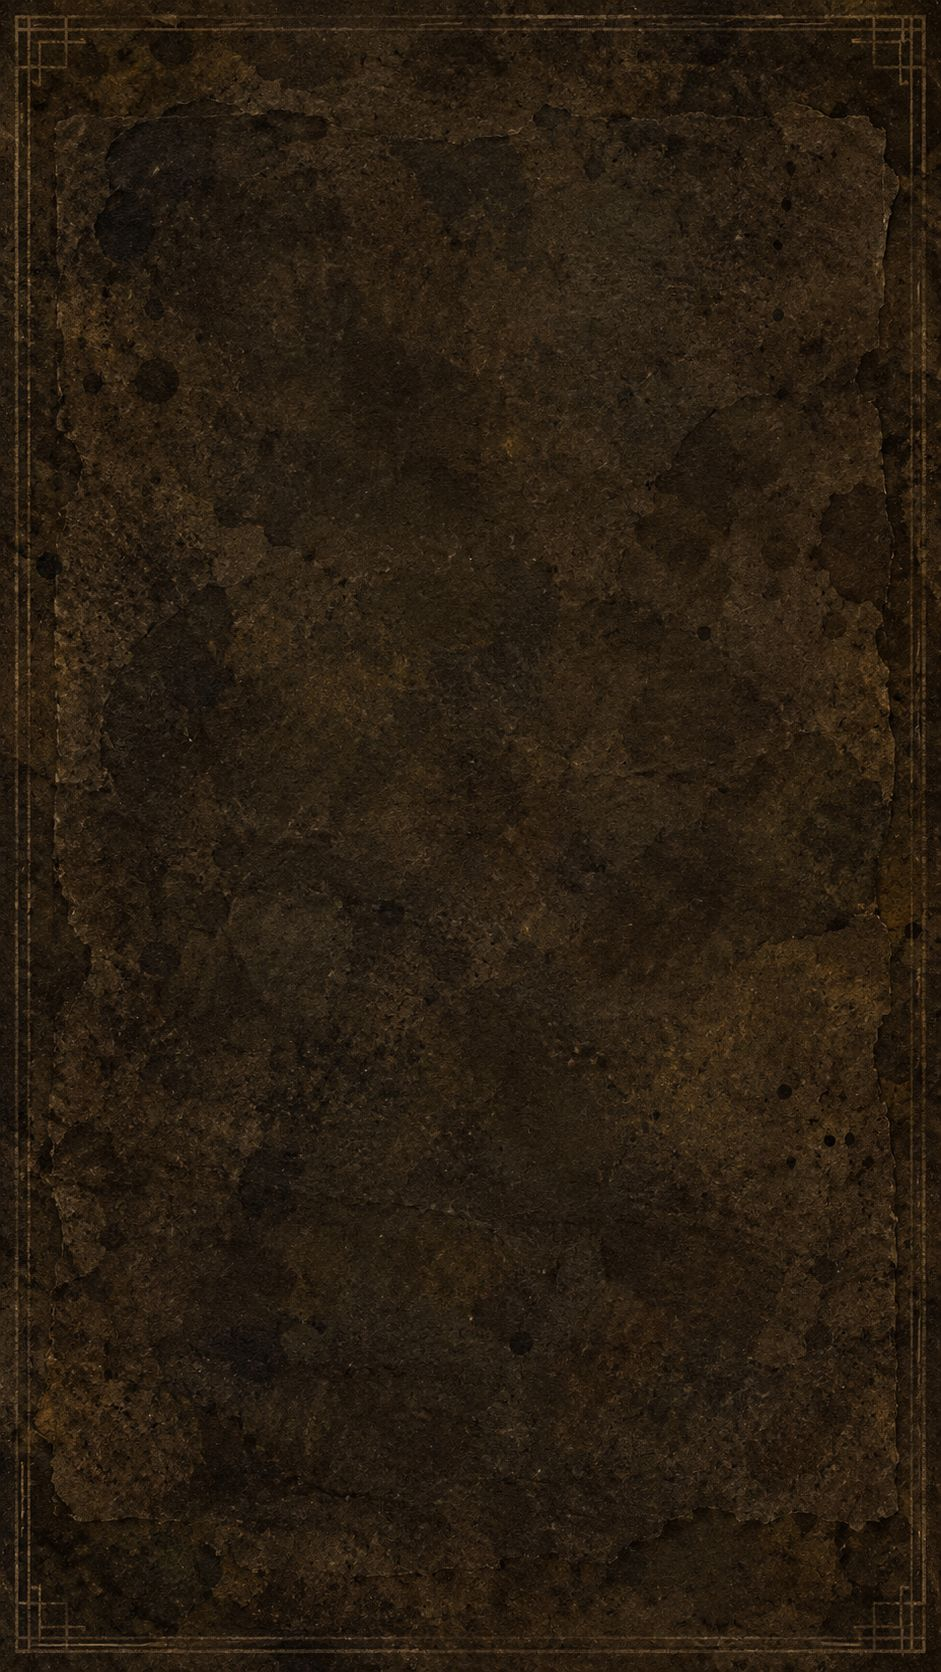
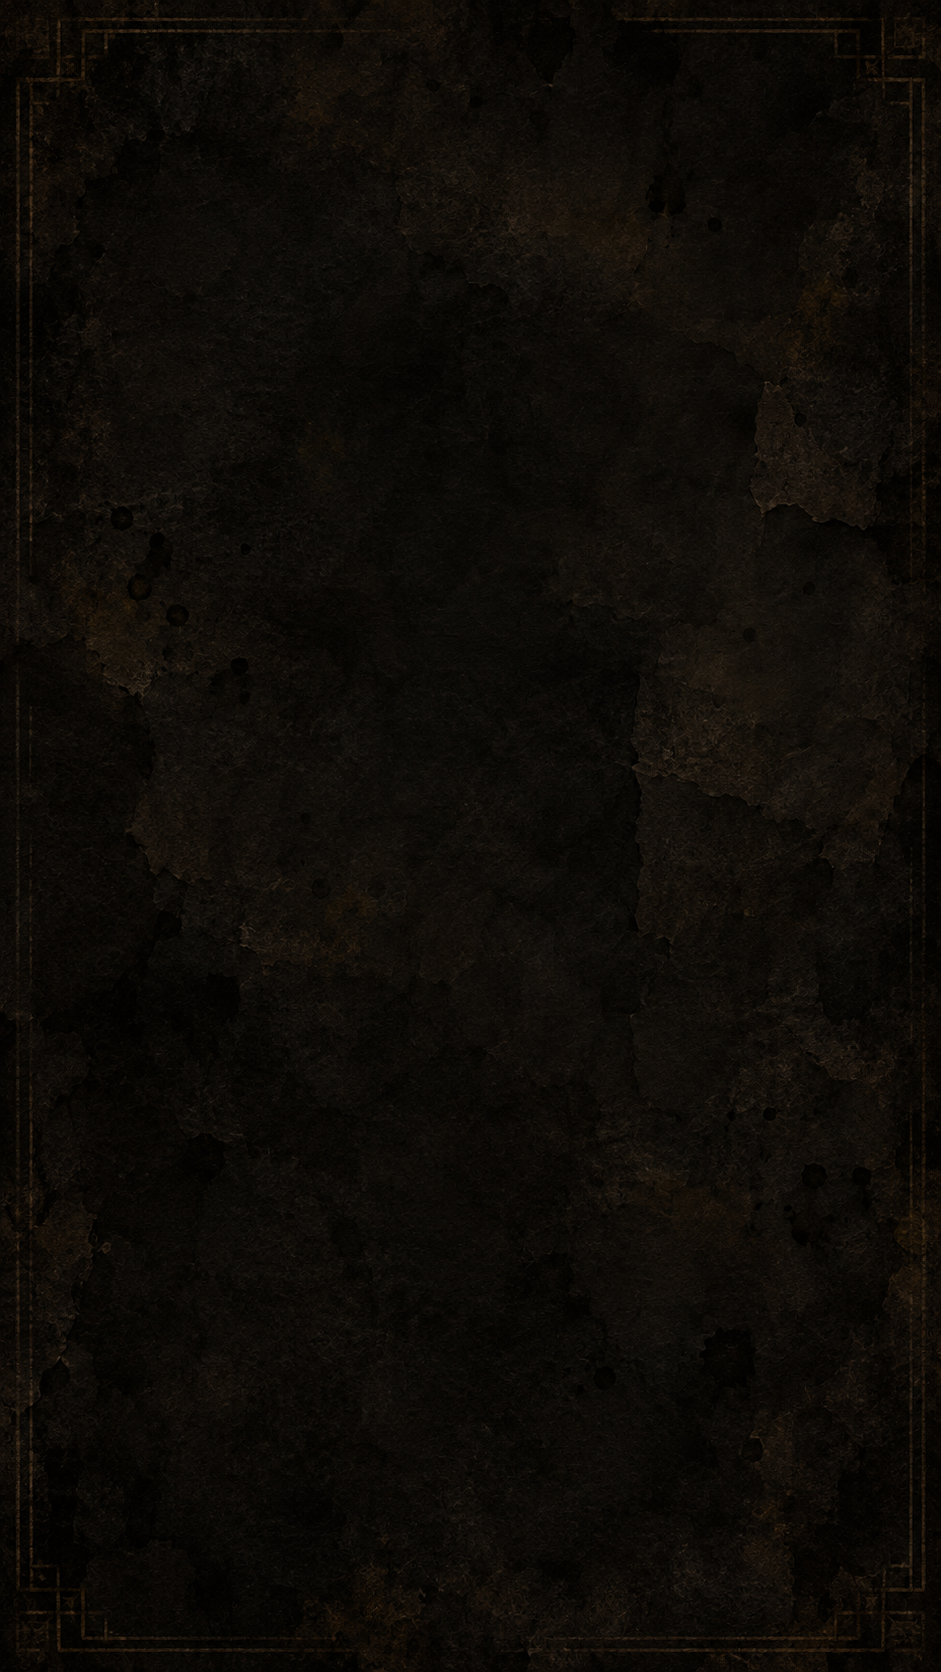
Add text export/import to the library for proofreading
Export writes the filtered scenarios as a plain-text file, one block per
passage headed by a hash of the original. Importing an edited file stores
changed blocks as overrides keyed by that hash and applies them to display
and speech; unchanged blocks are ignored, blocks set back to the original
are restored, and everything can be reset. Overrides ride along in the
backup code.

diff --git a/js/panels.js b/js/panels.js
@@ -61,13 +61,95 @@ function renderLibrary() {
 }
 function openLibrary(restore) {
   if (!OVERLAYS.includes(current)) { returnTo = current; if (!restore) { LIB.cycle = CUR.cycle.id; LIB.scenario = CUR.id; } }
-  stopPlayback(); fillLibSelects(); renderLibrary(); where('全部循環', '文本庫'); show('library');
+  stopPlayback(); fillLibSelects(); renderLibrary(); showOvCount(); where('全部循環', '文本庫'); show('library');
   if (restore) window.scrollTo(0, LIB.scroll);
 }
 $('libCycle').onchange = () => { LIB.cycle = $('libCycle').value; LIB.scenario = 'all'; fillLibSelects(); renderLibrary(); };
 $('libScenario').onchange = () => { LIB.scenario = $('libScenario').value; renderLibrary(); };
 let libT;
 $('libSearch').oninput = () => { clearTimeout(libT); libT = setTimeout(() => { LIB.q = $('libSearch').value; renderLibrary(); }, 160); };
+/* ---------- 文本匯出／匯入（逐段校對） ---------- */
+const textHash = t => { let h = 0x811c9dc5; for (let i = 0; i < t.length; i++) { h ^= t.charCodeAt(i); h = Math.imul(h, 0x01000193); } return (h >>> 0).toString(16).padStart(8, '0'); };
+// 一關裡所有可以校對的文字欄位。卡名不在內：同名的卡靠名字認版本，改名字請用名詞替換
+function textSlots(sc) {
+  const out = [];
+  const walk = (nodes, where) => nodes.forEach(n => {
+    if (n.k === 'ask') n.opts.forEach(o => walk(o.nodes, where));
+    else if (n.k !== 'goto' && n.text) out.push({ obj: n, key: 'text', where: `${where}${n.k === 'note' ? '（指示）' : ''}` });
+  });
+  walk(sc.flow, '開場');
+  sc.decks.forEach(d => d.cards.forEach(c => [['flavor', '正面'], ['backFlavor', '背面'], ['backText', '背面效果']].forEach(([key, side]) => {
+    if (c[key]) out.push({ obj: c, key, where: `${d.label} ${ROMAN[c.stage]} ${side}：${side === '正面' ? c.name : c.backName || c.name}` });
+  })));
+  resIds(sc).forEach(id => walk(sc.resolutions[id].flow, resLabel(id)));
+  return out;
+}
+const origOf = (obj, key) => obj['_' + key] == null ? obj[key] : obj['_' + key];
+// 把校對過的版本套到目前載入的劇本上；原文留在 _text 這類欄位，才還原得回來
+function applyOverrides() {
+  allScenarios().forEach(sc => textSlots(sc).forEach(({ obj, key }) => {
+    const orig = origOf(obj, key); obj['_' + key] = orig;
+    obj[key] = OV[textHash(orig)] || orig;
+  }));
+  allTextMemo = [null, ''];
+}
+const libPool = () => { const pool = LIB.cycle === 'all' ? allScenarios() : CYCLES.find(c => c.id === LIB.cycle).scenarios; return LIB.scenario === 'all' ? pool : pool.filter(sc => sc.id === LIB.scenario); };
+function exportText(pool) {
+  const seen = new Set();
+  const lines = ['# 詭鎮劇本朗讀器 文本 v1', '# 只改每段的文字。「##」和「@」開頭的行是記號，不要改也不要刪。', '# 改完把整份檔案匯入；沒改的段落會被略過，所以只留你改過的幾段也可以。', ''];
+  pool.forEach(sc => {
+    lines.push(`## ${sc.cycle.name} ${sc.code} ${sc.title}`, '');
+    textSlots(sc).forEach(({ obj, key, where }) => {
+      const h = textHash(origOf(obj, key)); if (seen.has(h)) return; seen.add(h);
+      lines.push(`@${h} ${where}`, obj[key], '');
+    });
+  });
+  return lines.join('\n');
+}
+function importText(raw) {
+  const blocks = {}; let cur = null;
+  raw.replace(/^\uFEFF/, '').split(/\r?\n/).forEach(line => {
+    const m = /^@([0-9a-f]{8})(\s|$)/.exec(line);
+    if (m) { cur = m[1]; blocks[cur] = []; }
+    else if (/^##\s/.test(line)) cur = null;
+    else if (cur) blocks[cur].push(line);
+  });
+  const originals = {};
+  allScenarios().forEach(sc => textSlots(sc).forEach(({ obj, key }) => { const o = origOf(obj, key); originals[textHash(o)] = o; }));
+  let changed = 0, restored = 0, unknown = 0;
+  Object.entries(blocks).forEach(([h, ls]) => {
+    const text = ls.join('\n').trim();
+    if (!(h in originals)) { unknown++; return; }
+    if (!text) return;
+    if (text === originals[h].trim()) { if (OV[h]) { delete OV[h]; restored++; } }
+    else if (OV[h] !== text) { OV[h] = text; changed++; }
+  });
+  saveOV(); applyOverrides();
+  return { blocks: Object.keys(blocks).length, changed, restored, unknown };
+}
+function showOvCount(msg) {
+  const n = Object.keys(OV).length;
+  $('libReset').hidden = !n; $('libReset').textContent = `還原全部（${n} 段）`;
+  $('libIoStatus').textContent = msg || (n ? `目前有 ${n} 段用的是你改過的版本。` : '');
+}
+$('libExport').onclick = () => {
+  const pool = libPool(), name = pool.length === 1 ? pool[0].title : LIB.cycle === 'all' ? '全部' : pool[0].cycle.name;
+  const a = document.createElement('a'); a.href = URL.createObjectURL(new Blob([exportText(pool)], { type: 'text/plain;charset=utf-8' }));
+  a.download = `劇本文本_${name}.txt`; document.body.append(a); a.click(); a.remove();
+  setTimeout(() => URL.revokeObjectURL(a.href), 5000);
+  showOvCount(`已匯出 ${pool.length} 個關卡的文字。`);
+};
+$('libImportBtn').onclick = () => $('libImport').click();
+$('libImport').onchange = async () => {
+  const f = $('libImport').files[0]; if (!f) return;
+  const r = importText(await f.text()); $('libImport').value = '';
+  renderLibrary();
+  showOvCount(!r.blocks ? '這個檔案裡找不到「@」開頭的記號，請確認是從這裡匯出的文字檔。'
+    : `讀到 ${r.blocks} 段：套用 ${r.changed} 段修改` + (r.restored ? `、還原 ${r.restored} 段` : '') + (r.unknown ? `、有 ${r.unknown} 段對不上目前的劇本（已略過）` : '') + '。');
+};
+$('libReset').onclick = () => confirmThen('確定還原全部？你改過的段落會變回資料庫原本的文字。', 'blood', () => {
+  Object.keys(OV).forEach(k => delete OV[k]); saveOV(); applyOverrides(); renderLibrary(); show('library'); showOvCount('已全部還原。');
+}, '還原');
 const OVERLAYS = ['library', 'glossary', 'settings', 'story', 'saves'];
 function back() {
   if (returnTo === 'game') toGame(); else if (returnTo === 'library') openLibrary(true);
@@ -255,7 +337,7 @@ $('saveDel').onclick = () => {
   }, '刪除');
 };
 $('backupOut').onclick = async () => {
-  const code = JSON.stringify({ v: 1, saves: SV, glossary: GL, settings: S });
+  const code = JSON.stringify({ v: 1, saves: SV, glossary: GL, settings: S, overrides: OV });
   $('backupBox').value = code;
   try { await navigator.clipboard.writeText(code); $('saveStatus').textContent = '備份代碼已複製到剪貼簿，貼到記事本或傳給自己保存。'; }
   catch (e) { $('saveStatus').textContent = '備份代碼在下方欄位，請手動複製保存。'; }
@@ -268,6 +350,7 @@ $('backupIn').onclick = () => {
       SV.active = j.saves.active; SV.list = j.saves.list; persist();
       if (j.glossary) { Object.assign(GL, j.glossary); saveGL(); }
       if (j.settings) { Object.assign(S, j.settings); store.set('asr.settings', S); }
+      if (j.overrides) { Object.keys(OV).forEach(k => delete OV[k]); Object.assign(OV, j.overrides); saveOV(); applyOverrides(); }
       renderSaves(); show('saves'); $('saveStatus').textContent = '備份已匯入。';
     }, '匯入');
   } catch (e) { $('saveStatus').textContent = '備份代碼格式不對，請確認是從這個工具匯出的。'; }

diff --git a/css/style.css b/css/style.css
@@ -238,6 +238,14 @@ input[type=range]{accent-color:var(--brass-hi);min-height:44px}
 .lib-ctl{display:grid;grid-template-columns:1fr 1fr;gap:8px}
 .lib-ctl input{grid-column:1/-1}
 .lib-count{font-size:13px;color:var(--muted)}
+.lib-io{background:rgba(25,30,26,.9);border-radius:var(--r);padding:0 14px}
+.lib-io summary{min-height:48px;display:flex;align-items:center;gap:8px;font-size:15px;cursor:pointer;list-style:none}
+.lib-io summary::-webkit-details-marker{display:none}
+.lib-io summary::before{content:"›";font-size:20px;color:var(--brass-hi);transition:transform .2s var(--ease)}
+.lib-io[open] summary::before{transform:rotate(90deg)}
+.lib-io .settings-actions{margin:12px 0}
+.lib-io .status{padding-bottom:10px}
+.small-btn[hidden]{display:none}
 .lib-sc{margin-top:18px;padding-top:14px;border-top:1px solid var(--brass)}
 .lib-sc h3{margin:0;font-family:var(--display);font-size:21px;letter-spacing:.04em}
 .lib-sc h3 small{display:block;font-family:var(--body);font-size:13px;color:var(--muted);font-weight:400;margin-bottom:2px}

diff --git a/index.html b/index.html
@@ -80,6 +80,13 @@
       <input id="libSearch" type="search" placeholder="搜尋文字，例如人名或地點" aria-label="搜尋">
     </div>
     <div class="lib-count" id="libCount" role="status"></div>
+    <details class="lib-io">
+      <summary>匯出與匯入（校對文字用）</summary>
+      <p class="note">匯出上面篩選範圍的文字檔，用任何文字編輯器修改後再匯入。改過的段落之後就照你的版本顯示和朗讀，只存在這台裝置。</p>
+      <div class="settings-actions"><button class="small-btn" id="libExport">匯出文字檔</button><button class="small-btn" id="libImportBtn">匯入修改</button><button class="small-btn" id="libReset" hidden>還原全部</button></div>
+      <input type="file" id="libImport" accept=".txt,text/plain" hidden>
+      <div class="status" id="libIoStatus" role="status"></div>
+    </details>
     <div id="libBody"></div>
   </section>
 

diff --git a/js/state.js b/js/state.js
@@ -27,6 +27,11 @@ function saveResult(sc, resId, lines) {
 }
 const fmtTime = t => { const d = new Date(t); return `${d.getMonth() + 1}/${d.getDate()} ${String(d.getHours()).padStart(2, '0')}:${String(d.getMinutes()).padStart(2, '0')}`; };
 
+/* ---------- overrides（逐段校對） ----------
+   key 是原文的雜湊，value 是使用者改過的版本。從文本庫匯出、改完再匯入。 */
+const OV = store.get('asr.overrides', {});
+const saveOV = () => store.set('asr.overrides', OV);
+
 /* ---------- glossary ---------- */
 const GL = Object.assign({ rules: [], quotes: true }, store.get('asr.glossary', {}));
 const saveGL = () => store.set('asr.glossary', GL);

diff --git a/js/main.js b/js/main.js
@@ -23,6 +23,7 @@ const CACHE_VER = 1;
 const cacheSig = () => CACHE_VER + '|' + JSON.stringify(REAL);
 function enter() {
   $('loadMsg').hidden = true; $('loadBtns').hidden = true; $('skeleton').hidden = true;
+  applyOverrides();
   CUR = findSc(store.get('asr.last', '')) || allScenarios()[0]; homeCycle = CUR.cycle.id;
   toHome();
 }

diff --git a/HANDOFF.md b/HANDOFF.md
@@ -29,6 +29,7 @@
 | 劇情型關卡（序章）＋條件段落（蘿拉·海耶斯） | 完成 |
 | 文本庫：所有關卡全文、篩選、搜尋、點段落從那裡開始念 | 完成 |
 | 名詞替換：文字＋朗讀／只改讀音、出現次數、常見名字建議、匯出匯入 | 完成 |
+| 逐段校對：文本庫可匯出 `.txt`（每段前有 `@雜湊` 記號），改完匯入，改過的段落存 `asr.overrides`（key＝原文雜湊）並套到顯示與朗讀；可還原；含在備份代碼裡 | 完成；`textSlots()`／`applyOverrides()` 在 `js/panels.js`。卡名不能改（同名卡靠名字認版本） |
 | 存檔：多存檔、自動存進度與結局、戰役日誌、備份代碼 | 完成（localStorage） |
 | 語音存檔：線上語音的音訊存 IndexedDB（`asr-voice`／`clips`），鍵＝模型｜聲音｜語氣｜文字 | 完成；非 Google 模型要 mp3、Gemini 只能 pcm（24kHz 約 2.9 MB／分鐘，玩完整輪約 300 MB） |
 | 線上語音可換模型：用下拉選單選實測過的組合（選了就套用並試聽），選「自訂」才出現自由輸入欄（`TTS_PRESETS` 在 `js/panels.js`） | 完成；2026-10-08 實測可用：gemini-3.8-flash-tts、gemini-3.8-flash-lite-tts、mai-voice-2.1-flash、fish-audio/s2.1-pro(-free)、qwen-audio-3.0-tts-flash、kokoro-82m |
@@ -94,7 +95,7 @@
 4. ~~第 VII 關「黑星升起」：兩疊密謀同時進行，遊戲畫面需支援多疊。~~ 完成（2026-10-08）。
    - 待改進：部分卡背的劇情寫在 `back_text`（混著條件句，例如蒼白面具場景 2、真相幻影場景 1），目前顯示在「照卡面執行」方框、不會朗讀。
 5. 戰役日誌的「懷疑」「信念」等累計數值：先做手動加減。
-6. 逐句覆寫校對層（目前只有名詞替換）。
+6. ~~逐句覆寫校對層。~~ 完成（2026-10-08），做成文本庫的匯出／匯入，單位是「段」。
 7. 待使用者確認：替換表是否依循環分開、卡背效果要不要朗讀、是否需要雲端存檔。
 
 ## 6. 限制與原則

diff --git a/README.md b/README.md
@@ -10,6 +10,7 @@
 
 - 進度、名詞替換表、朗讀設定都存在該裝置的瀏覽器裡；換裝置前到「存檔與日誌」匯出備份。
 - 預設用裝置內建語音。要用線上語音（預設 Gemini），到「朗讀設定」填自己的 OpenRouter 金鑰（只存在你的瀏覽器）。模型與聲音可以自己改。
+- 翻譯用字想大量修改：到「文本庫」匯出文字檔，改完再匯入，改過的段落就照你的版本顯示和朗讀。零星的人名地名用「名詞替換」比較快。
 - 線上語音產生過的句子會存在該裝置的瀏覽器裡，重聽不再收費；換模型、聲音或語氣指示會重新產生。可在「朗讀設定」查看用量或清除。
 
 ## 專案結構
